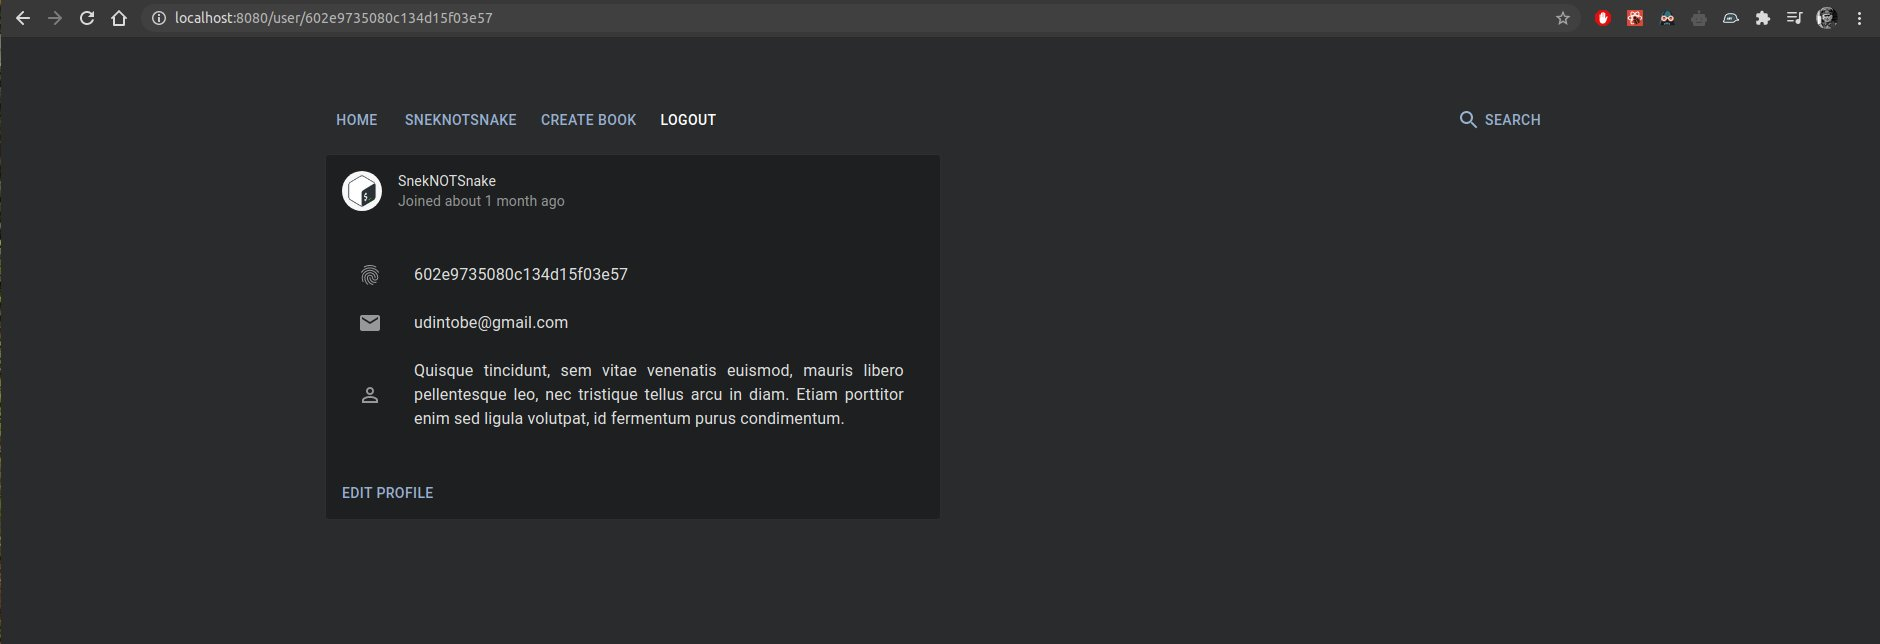
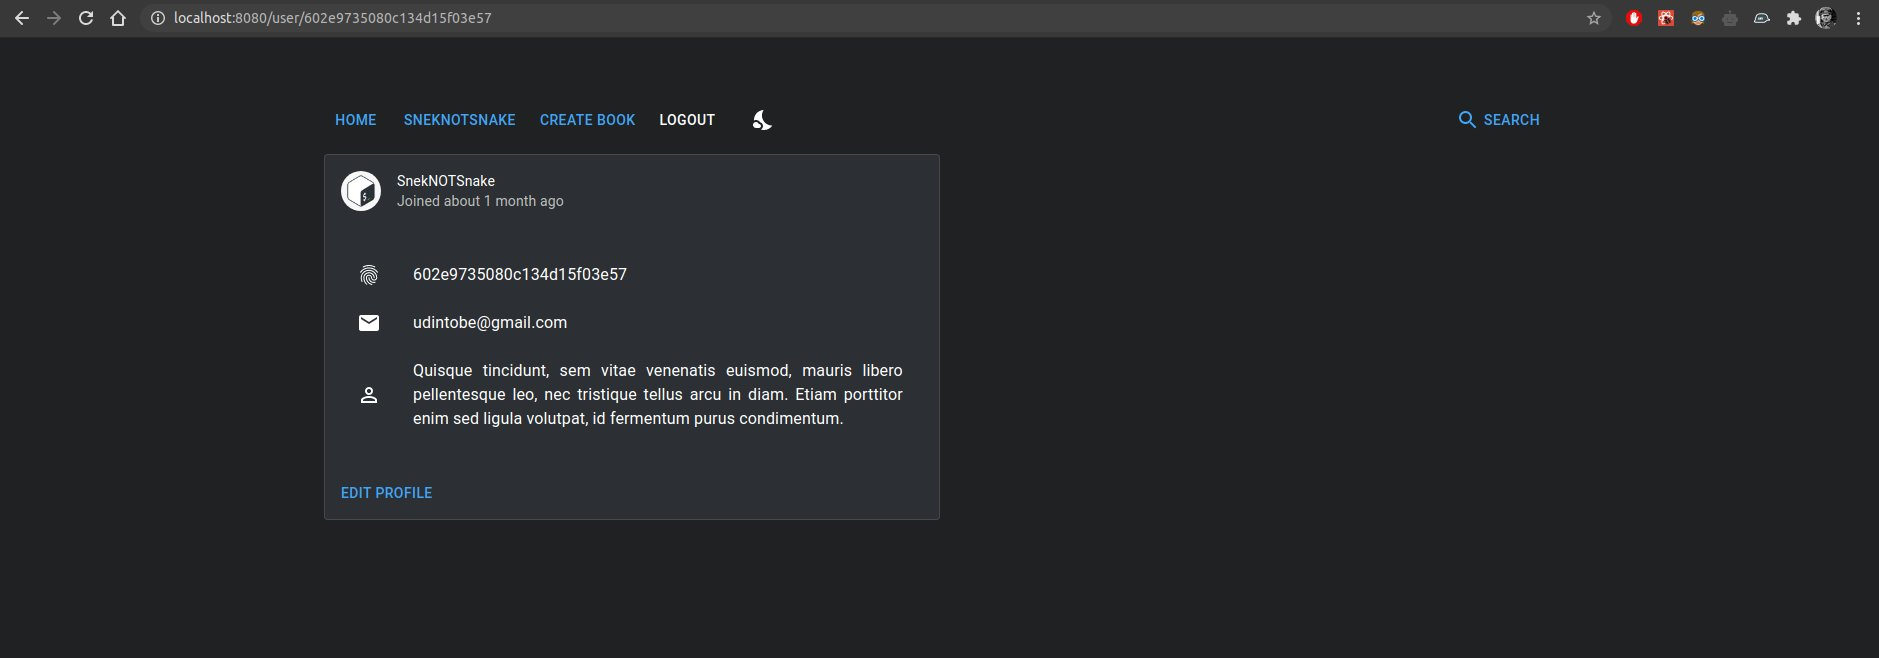
Add dark theme
- Add dark theme
- Add state management using `React.useReducer()` and `Context`
- Update README.md

diff --git a/packages/client/src/pages/App/App.tsx b/packages/client/src/pages/App/App.tsx
@@ -1,9 +1,16 @@
 import React from 'react'
 import { Switch, Route, Redirect } from 'react-router-dom'
 
+import {
+	ThemeProvider as MuiThemeProvider,
+	createMuiTheme,
+} from '@material-ui/core/styles'
+import CssBaseline from '@material-ui/core/CssBaseline'
+import Box from '@material-ui/core/Box'
 import Container from '@material-ui/core/Container'
 import Typography from '@material-ui/core/Typography'
 
+import { ThemeProvider, useThemeState } from '../../context/theme'
 import AuthService from '../../services/Auth'
 import useStyles from './App.style'
 import Navbar from '../../components/Navbar'
@@ -15,6 +22,57 @@ const Profile = React.lazy(() => import('../Profile'))
 const CreateBook = React.lazy(() => import('../CreateBook'))
 const Signup = React.lazy(() => import('../Signup'))
 const Search = React.lazy(() => import('../Search'))
+
+type LayoutProps = {
+	loading: boolean
+	setCurrentUser: Function
+	currentUser: IUser | null
+}
+
+const Layout: React.FC<LayoutProps> = ({
+	children,
+	loading,
+	setCurrentUser,
+	currentUser,
+}) => {
+	const { theme } = useThemeState()
+
+	const muiTheme = React.useMemo(() => {
+		return createMuiTheme({
+			palette: {
+				type: theme === 'light' ? 'light' : 'dark',
+				background: {
+					default: theme === 'light' ? '#fefefe' : '#202122',
+					paper: theme === 'light' ? '#fff' : '#2c2f33',
+				},
+				primary: {
+					main: theme === 'light' ? '#1976d2' : '#42a5f5',
+					contrastText: '#fff',
+				},
+			},
+		})
+	}, [theme])
+
+	const classes = useStyles()
+
+	const renderContent = loading ? (
+		<Typography variant="h6">Loading user</Typography>
+	) : (
+		<Box>
+			<Navbar setCurrentUser={setCurrentUser} currentUser={currentUser} />
+			{children}
+		</Box>
+	)
+
+	return (
+		<MuiThemeProvider theme={muiTheme}>
+			<CssBaseline />
+			<Container fixed className={classes.container}>
+				{renderContent}
+			</Container>
+		</MuiThemeProvider>
+	)
+}
 
 const App: React.FC = () => {
 	const [loading, setLoading] = React.useState<boolean>(true)
@@ -31,53 +89,53 @@ const App: React.FC = () => {
 		refreshToken()
 	}, [])
 
-	const classes = useStyles()
-
-	if (loading)
-		return (
-			<Container fixed className={classes.container}>
-				<Typography variant="h6">Loading user</Typography>
-			</Container>
-		)
-
 	return (
-		<Container fixed className={classes.container}>
-			<Navbar setCurrentUser={setCurrentUser} currentUser={currentUser} />
-			<React.Suspense
-				fallback={<Typography variant="h6">Loading page</Typography>}
+		<ThemeProvider>
+			<Layout
+				loading={loading}
+				setCurrentUser={setCurrentUser}
+				currentUser={currentUser}
 			>
-				<Switch>
-					<Route exact path="/" render={() => <Home />} />
-					<Route exact path="/book/:id" render={(args) => <Book {...args} />} />
-					<Route
-						exact
-						path="/login"
-						render={(args) => {
-							if (currentUser?.id) return <Redirect to="/" />
-							return <Login setCurrentUser={setCurrentUser} {...args} />
-						}}
-					/>
-					<Route
-						exact
-						path="/user/:id"
-						render={(params) => (
-							<Profile
-								{...params}
-								setCurrentUser={setCurrentUser}
-								user={currentUser}
-							/>
-						)}
-					/>
-					<Route
-						exact
-						path="/create-book"
-						render={() => <CreateBook user={currentUser} />}
-					/>
-					<Route exact path="/signup" render={() => <Signup />} />
-					<Route exact path="/search" render={() => <Search />} />
-				</Switch>
-			</React.Suspense>
-		</Container>
+				<React.Suspense
+					fallback={<Typography variant="h6">Loading page</Typography>}
+				>
+					<Switch>
+						<Route exact path="/" render={() => <Home />} />
+						<Route
+							exact
+							path="/book/:id"
+							render={(args) => <Book {...args} />}
+						/>
+						<Route
+							exact
+							path="/login"
+							render={(args) => {
+								if (currentUser?.id) return <Redirect to="/" />
+								return <Login setCurrentUser={setCurrentUser} {...args} />
+							}}
+						/>
+						<Route
+							exact
+							path="/user/:id"
+							render={(params) => (
+								<Profile
+									{...params}
+									setCurrentUser={setCurrentUser}
+									user={currentUser}
+								/>
+							)}
+						/>
+						<Route
+							exact
+							path="/create-book"
+							render={() => <CreateBook user={currentUser} />}
+						/>
+						<Route exact path="/signup" render={() => <Signup />} />
+						<Route exact path="/search" render={() => <Search />} />
+					</Switch>
+				</React.Suspense>
+			</Layout>
+		</ThemeProvider>
 	)
 }
 

diff --git a/packages/client/src/components/Navbar/Navbar.tsx b/packages/client/src/components/Navbar/Navbar.tsx
@@ -5,7 +5,10 @@ import Box from '@material-ui/core/Box'
 import LinkComponent from '@material-ui/core/Link'
 import Button from '@material-ui/core/Button'
 import SearchIcon from '@material-ui/icons/Search'
+import NightStayIcon from '@material-ui/icons/NightsStay'
+import WbSunnyIcon from '@material-ui/icons/WbSunny'
 
+import { useThemeDispatch, useThemeState } from '../../context/theme'
 import AuthService from '../../services/Auth'
 import useStyles from './Navbar.style'
 
@@ -20,6 +23,11 @@ const LinkButton: React.FC<LinkButtonProps> = ({ to, text }) => (
 
 const Navbar: React.FC<NavbarProps> = ({ currentUser, setCurrentUser }) => {
 	const history = useHistory()
+
+	const { theme } = useThemeState()
+	const dispatchTheme = useThemeDispatch()
+
+	const toggleTheme = () => dispatchTheme({ type: 'TOGGLE_THEME' })
 
 	const logout = async () => {
 		await AuthService.logout()
@@ -48,6 +56,9 @@ const Navbar: React.FC<NavbarProps> = ({ currentUser, setCurrentUser }) => {
 		<Box className={classes.root}>
 			<LinkButton to="/" text="Home" />
 			{RenderLogin}
+			<Button color="inherit" type="button" onClick={toggleTheme}>
+				{theme === 'light' ? <WbSunnyIcon /> : <NightStayIcon />}
+			</Button>
 			<Box className={classes.grow} />
 			<LinkComponent underline="none" component={Link} to="/search">
 				<Button type="button" color="inherit">

diff --git a/packages/client/src/context/theme/context.tsx b/packages/client/src/context/theme/context.tsx
@@ -1,0 +1,32 @@
+import React from 'react'
+import { themeReducer, State, Action } from './reducer'
+
+const storedSetting = localStorage.getItem('theme')
+const initialState: State = storedSetting
+	? JSON.parse(storedSetting)
+	: { theme: 'light' }
+
+const ThemeStateContext = React.createContext(initialState)
+const ThemeDispatchContext = React.createContext<React.Dispatch<Action>>(
+	() => {},
+)
+
+export const ThemeProvider: React.FC = ({ children }) => {
+	const [theme, dispatch] = React.useReducer(themeReducer, initialState)
+
+	// Persist state on each update
+	React.useEffect(() => {
+		localStorage.setItem('theme', JSON.stringify(theme))
+	}, [theme])
+
+	return (
+		<ThemeStateContext.Provider value={theme}>
+			<ThemeDispatchContext.Provider value={dispatch}>
+				{children}
+			</ThemeDispatchContext.Provider>
+		</ThemeStateContext.Provider>
+	)
+}
+
+export const useThemeState = () => React.useContext(ThemeStateContext)
+export const useThemeDispatch = () => React.useContext(ThemeDispatchContext)

diff --git a/packages/client/src/context/theme/reducer.ts b/packages/client/src/context/theme/reducer.ts
@@ -1,0 +1,17 @@
+import React from 'react'
+
+export type State = { theme: 'light' | 'dark' }
+export type Action = { type: 'TOGGLE_THEME' /* payload: undefined */ }
+
+export const themeReducer: React.Reducer<State, Action> = (state, { type }) => {
+	switch (type) {
+		case 'TOGGLE_THEME':
+			return {
+				...state,
+				theme: state.theme === 'dark' ? 'light' : 'dark',
+			}
+
+		default:
+			throw new Error('Unhandled action type')
+	}
+}

diff --git a/packages/client/src/pages/App/App.style.ts b/packages/client/src/pages/App/App.style.ts
@@ -1,6 +1,16 @@
 import { makeStyles } from '@material-ui/core/styles'
 
 export default makeStyles((theme) => ({
+	'@global': {
+		'*': {
+			boxSizing: 'border-box',
+		},
+		body: {
+			margin: 0,
+			padding: 0,
+			fontFamily: 'roboto, Arial, Helvetica, sans-serif',
+		},
+	},
 	container: {
 		paddingTop: theme.spacing(8),
 		minHeight: '100vh',

diff --git a/packages/client/src/index.tsx b/packages/client/src/index.tsx
@@ -12,7 +12,6 @@ import App from './pages/App'
 import { errorLink, authLink, uploadLink } from './utils/links'
 import cache from './utils/cache'
 import './assets/fonts/roboto/stylesheet.css'
-import './index.css'
 
 const client: ApolloClient<NormalizedCacheObject> = new ApolloClient({
 	cache: cache,

diff --git a/packages/client/src/pages/Home/Home.tsx b/packages/client/src/pages/Home/Home.tsx
@@ -99,6 +99,7 @@ const Home: React.FC = () => {
 					variant="contained"
 					disableElevation
 					type="button"
+					className={classes.moreButton}
 					onClick={() =>
 						fetchMore({
 							variables: { first: 2, after: data.books.pageInfo.endCursor },

diff --git a/packages/client/src/pages/Home/Home.style.ts b/packages/client/src/pages/Home/Home.style.ts
@@ -19,4 +19,7 @@ export default makeStyles((theme) => ({
 	stars: {
 		marginRight: theme.spacing(1),
 	},
+	moreButton: {
+		marginRight: theme.spacing(1),
+	},
 }))

diff --git a/packages/client/src/context/theme/index.ts b/packages/client/src/context/theme/index.ts
@@ -1,0 +1,1 @@
+export * from './context'

diff --git a/README.md b/README.md
@@ -84,6 +84,7 @@ NODE_ENV=production yarn workspace @bulletproof/server node dist/server.js
 
 Repositories on GitHub that helped me build this project:
 
+- [React State Management](https://github.com/sanderdebr/react-usereducer-context-tutorial)
 - [JWT Refresh Token](https://github.com/Console45/jwt-refresh-token-implementation)
 - [GraphQL Architecture](https://github.com/tonyfromundefined/boiler)
 - [REST Architecture](https://github.com/SnekNOTSnake/Natours)
